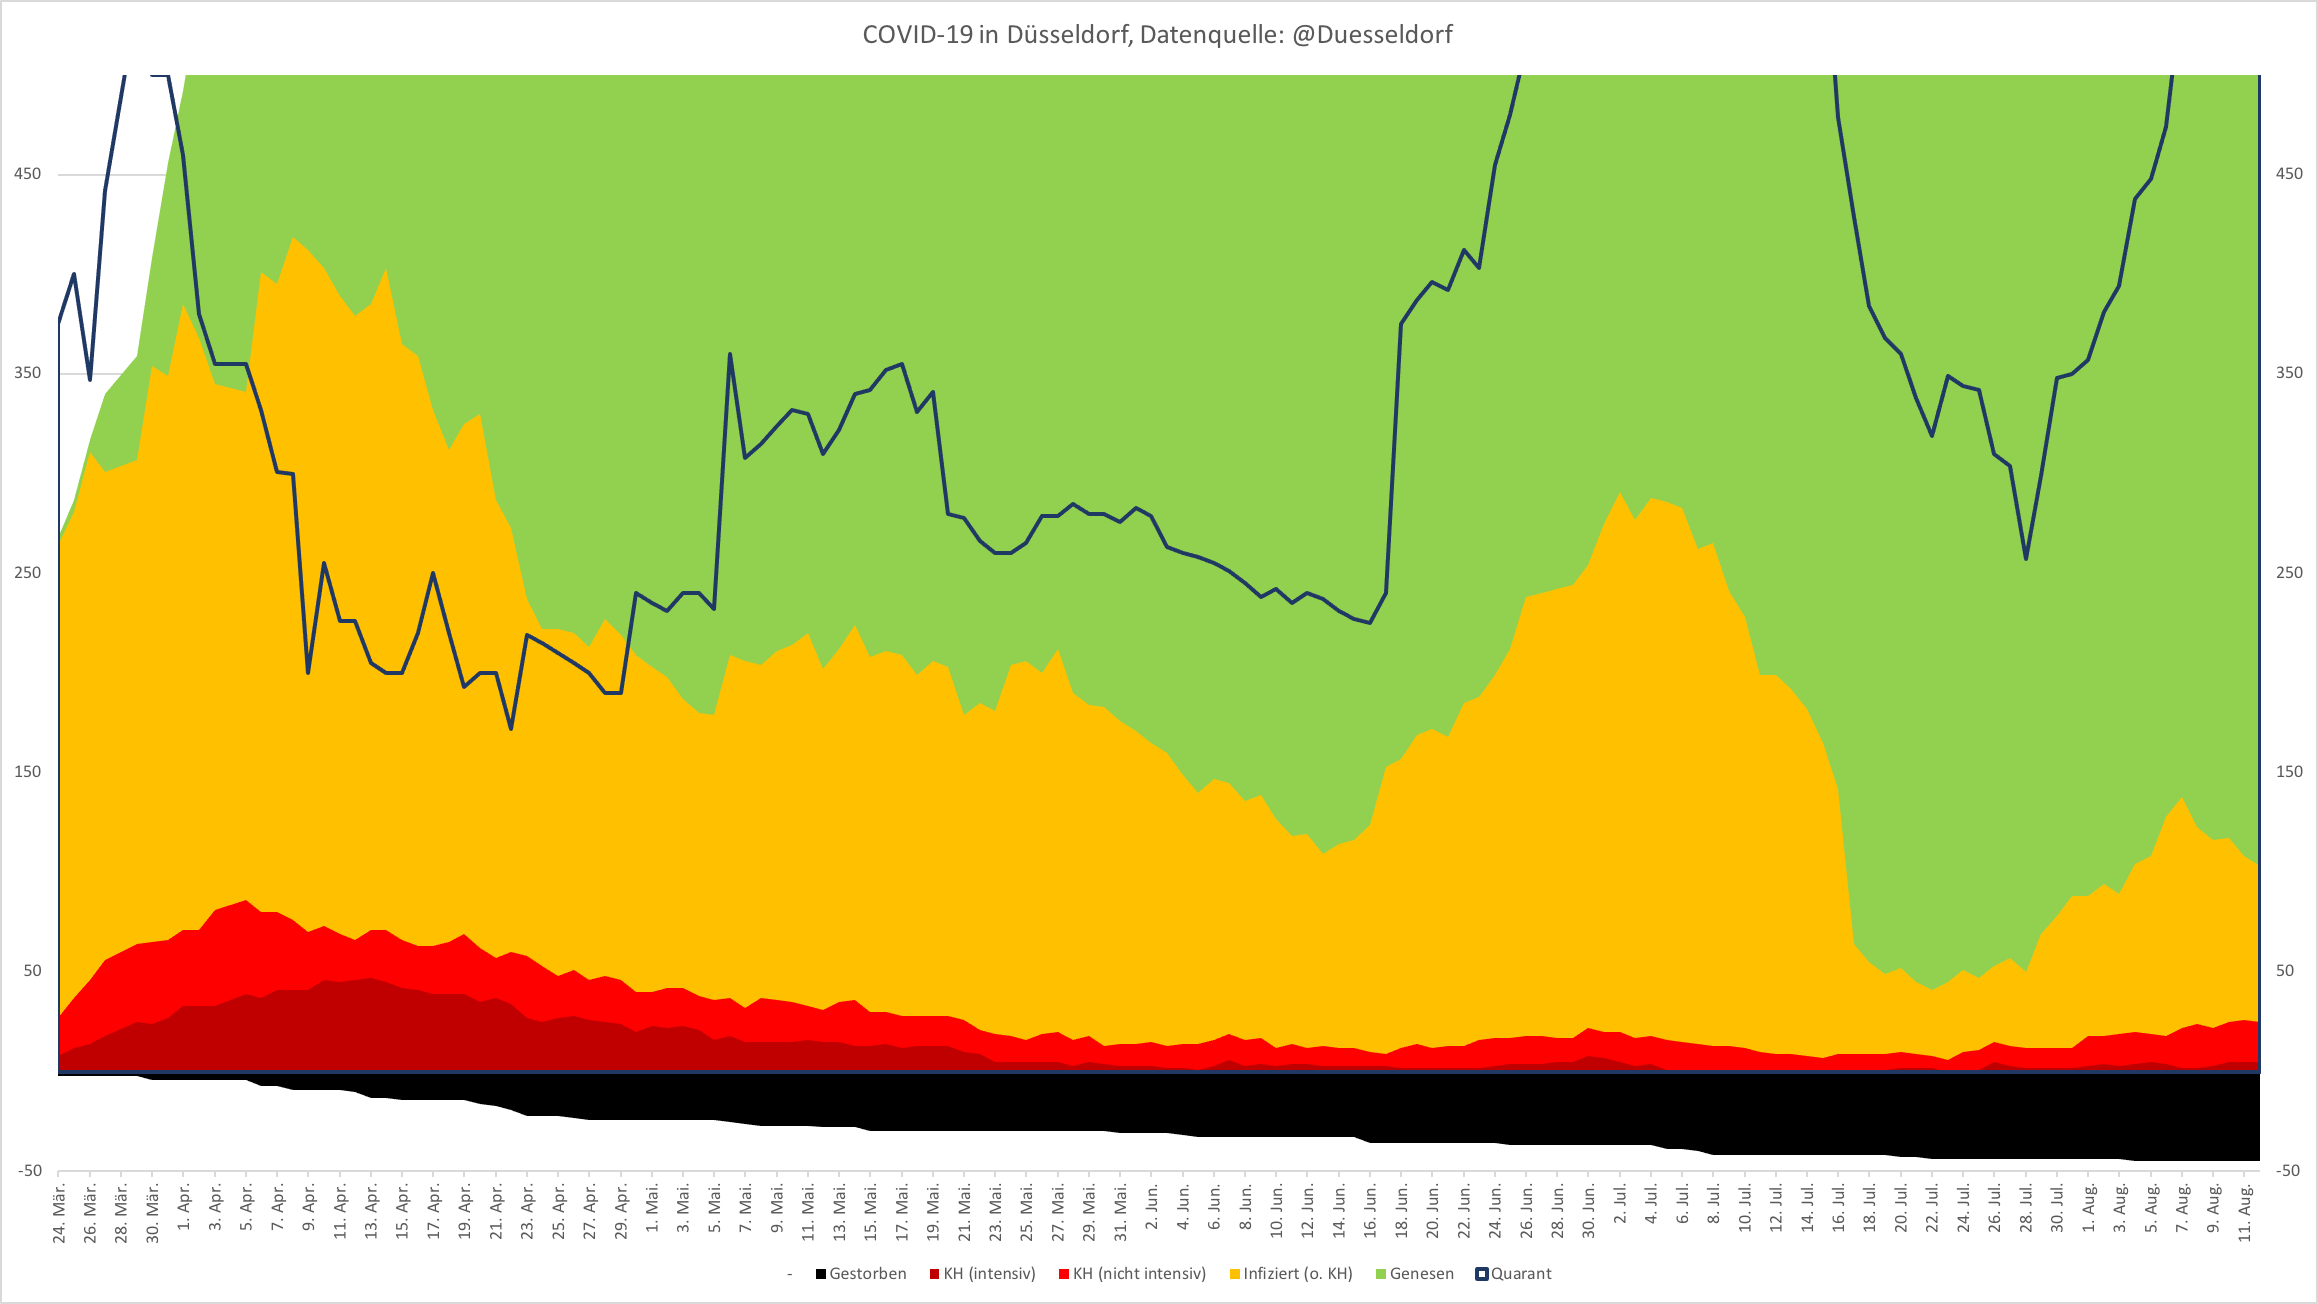
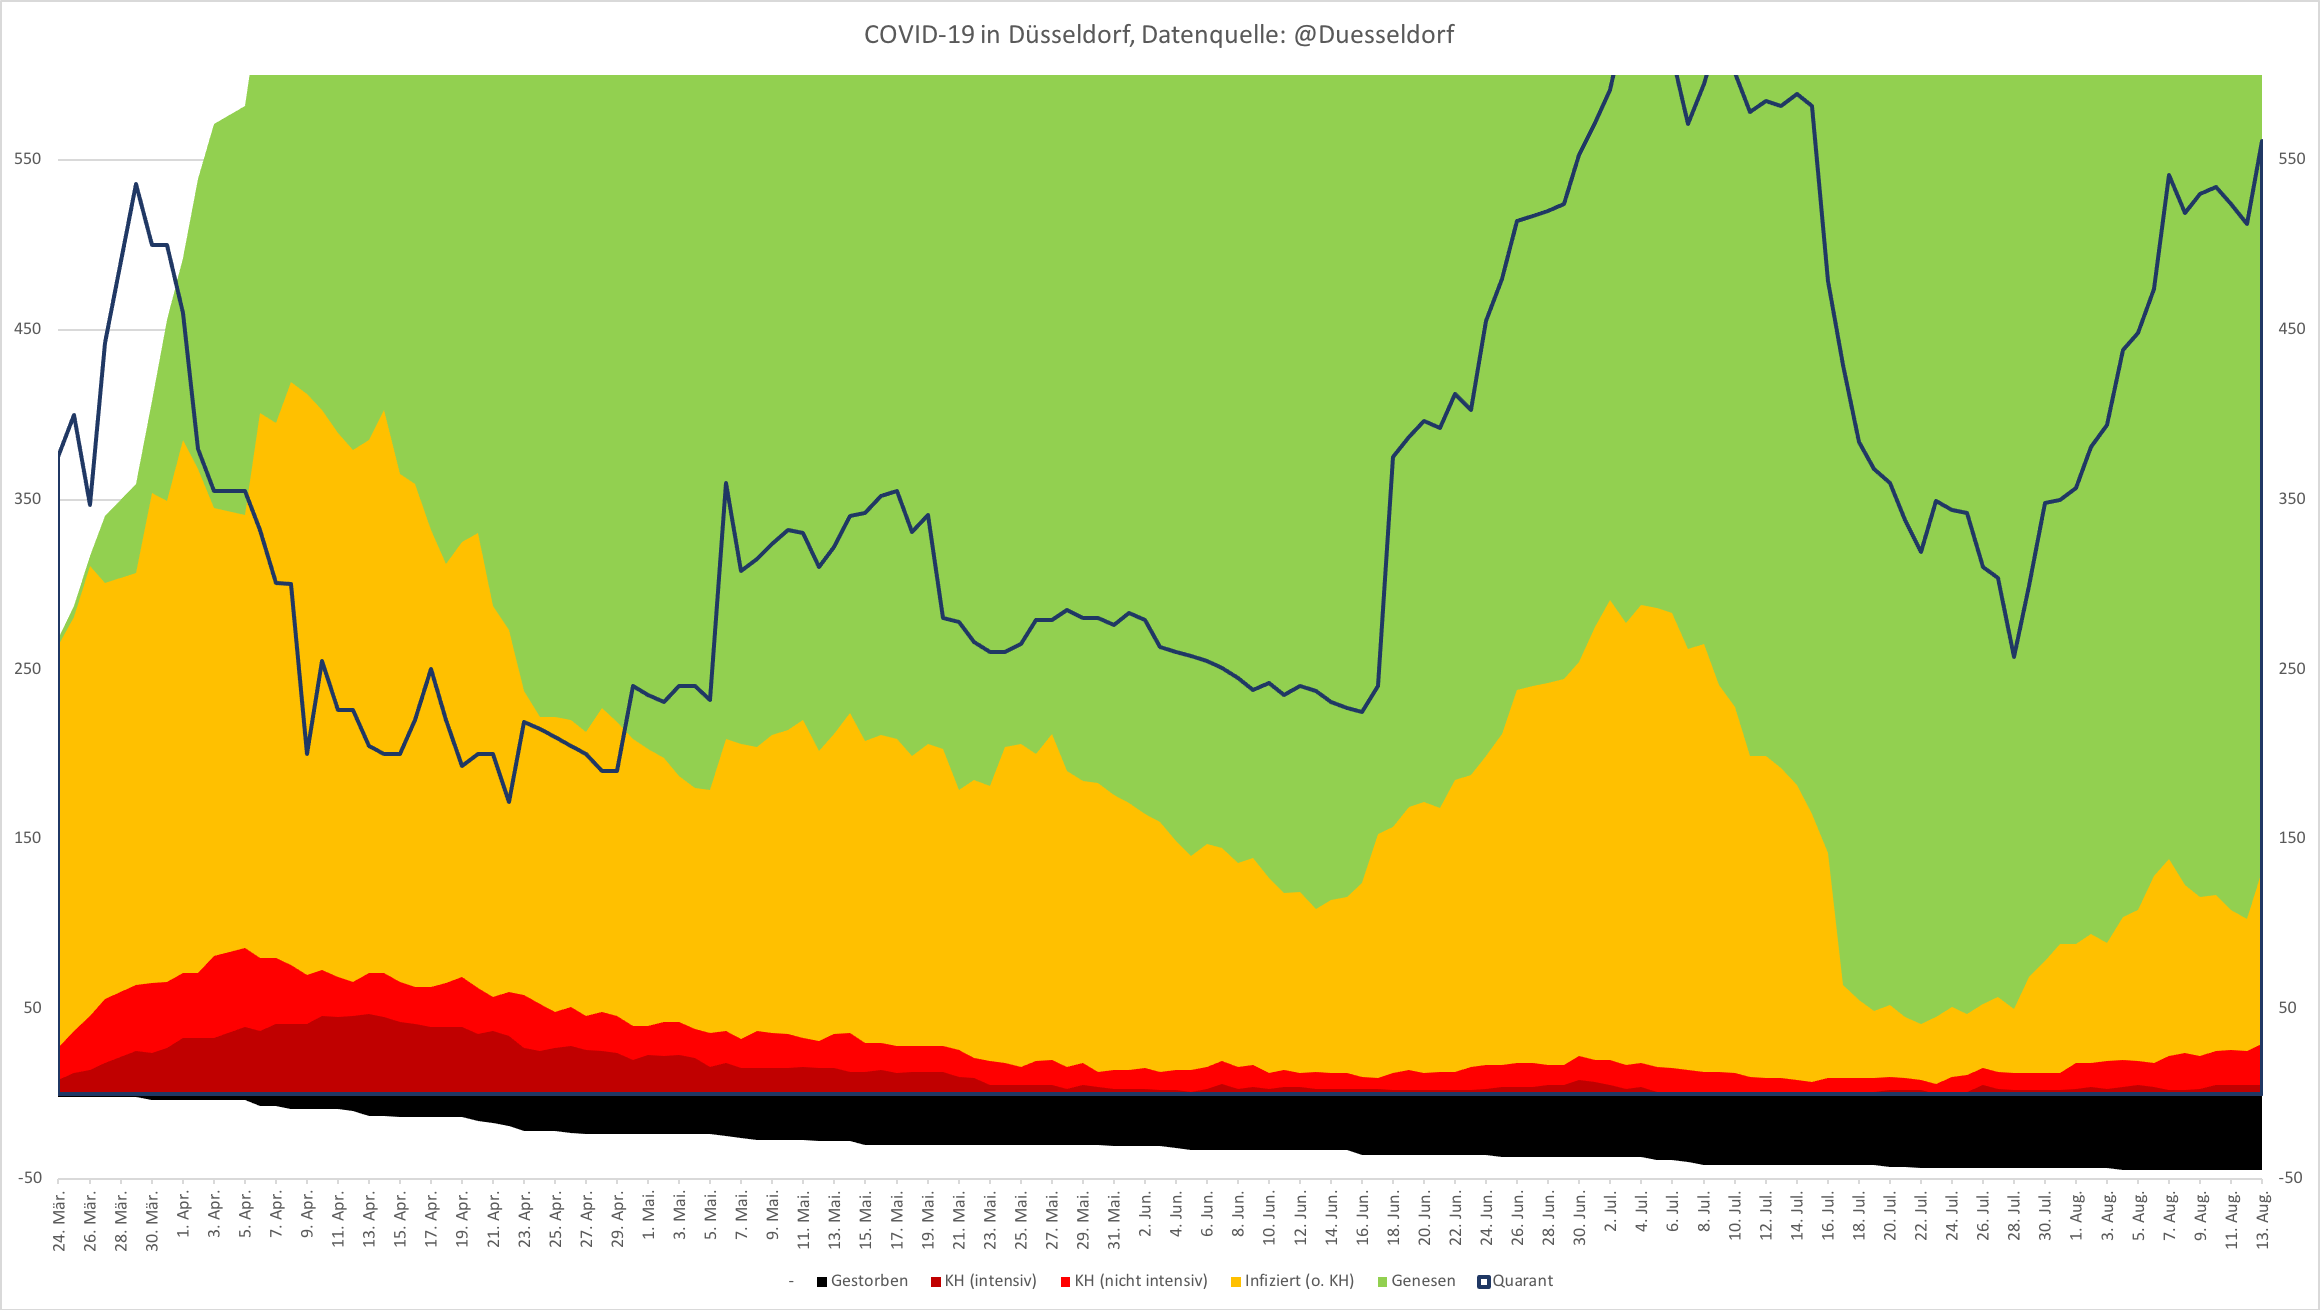
Stand 13.08.2020 22:00

diff --git a/README.md b/README.md
@@ -9,3 +9,6 @@ Die Aktualisierung nehme ich unregelmäßig vor, üblicherweise 1-2x pro Woche.
 Die aktuelle Grafik:
 
 ![Aktuelle COVID-19-Zahlen für Düsseldorf](https://github.com/dirkschreib/Covid19DUS/blob/master/Covid19DUS.png)
+
+Veränderungen:
+- Die vertikale Achse wurde auf den Bereich (-50, 600) erweitert. (14.08.2020)
